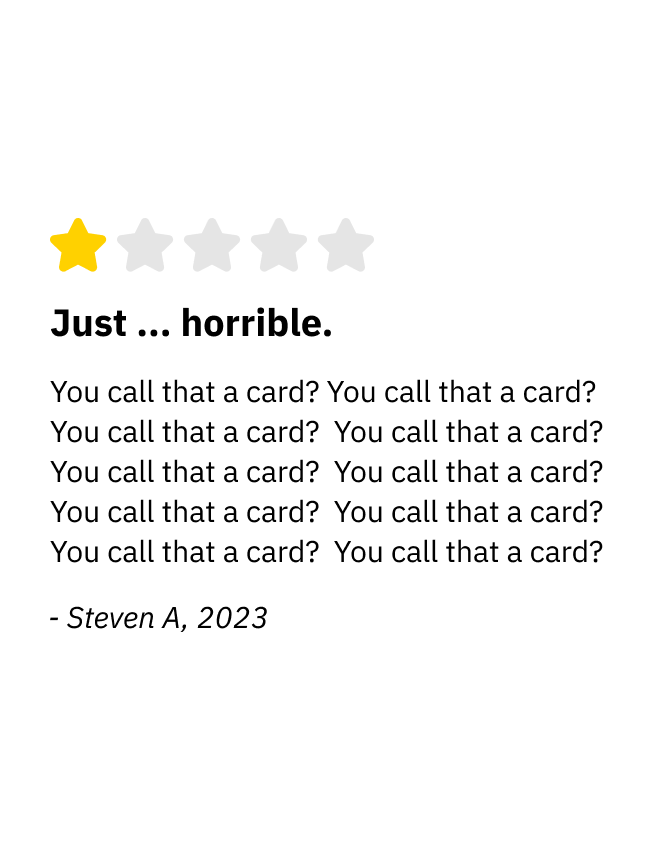
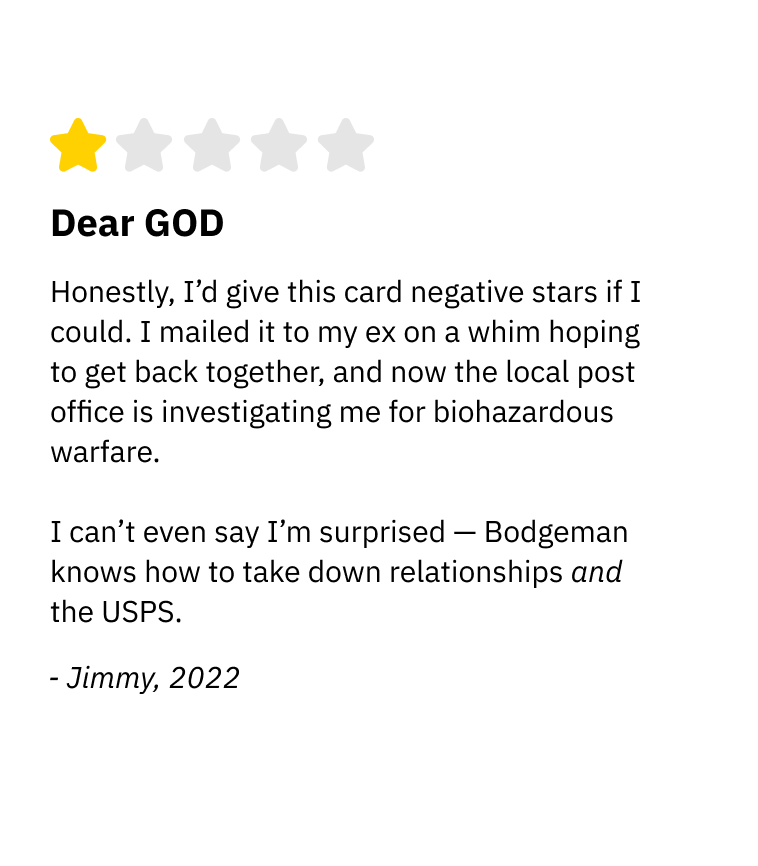
final push

Changed region(s): [[0.0625, 0.1247, 0.9062, 0.8106]]

diff --git a/index.html b/index.html
@@ -63,8 +63,9 @@
             <h3 class="sticky-title">What Our Customers Say</h3>
             <div class="image-list">
                 <img src="images/reviews/review1.png" alt="Sarcastic Birthday Card - 'Another Year Older'" loading="lazy">
-                <img src="images/reviews/review1.png" alt="Sarcastic Birthday Card - 'Another Year Older'" loading="lazy">
-                <img src="images/reviews/review1.png" alt="Sarcastic Birthday Card - 'Another Year Older'" loading="lazy">
+                <img src="images/reviews/review2.png" alt="Sarcastic Birthday Card - 'Another Year Older'" loading="lazy">
+                <img src="images/reviews/review3.png" alt="Sarcastic Birthday Card - 'Another Year Older'" loading="lazy">
+                <img src="images/reviews/review4.png" alt="Sarcastic Birthday Card - 'Another Year Older'" loading="lazy">
             </div>
         </section>
 
@@ -73,34 +74,30 @@
             <h3 class="sticky-title">Disclaimers</h3>
             <p>
                 <!-- Long disclaimers text -->
-                This product is not guaranteed to bring joy, happiness, or resolve familial tensions. Bodgeman Cards takes no responsibility for any emotional, physical, or metaphysical harm caused by receiving or handling our cards. By purchasing our products, you agree not to hold us liable for any injuries, losses, damages, or existential dread. The materials used may be substandard, the ink may fade, and in some instances, the card may spontaneously combust. 
+                This product is not guaranteed to bring joy, happiness, or resolve familial tensions. Bodgeman Cards takes no responsibility for any emotional, physical, or metaphysical harm caused by receiving or handling our cards. By purchasing our products, you agree not to hold us liable for any injuries, losses, damages, or existential dread. 
                 <br><br>
-                This is an extreme rarity and most likely just a rumor started by competitors. Results may vary. Terms subject to change at any time, especially when you are not looking. We are not responsible for your decision-making, your life choices, or the circumstances that led you to read this absurdly long disclaimer. 
+                The materials used may be substandard. However, the ink will never fade, given it's 4% radioactive. In some instances, the card may spontaneously combust. 
+                This is an extreme rarity and most likely just a rumor started by competitors. Results may vary. 
                 <br><br>
-                Please recycle responsibly, though we cannot guarantee these cards are recyclable. Consult a lawyer before purchasing, gifting, or even thinking about Bodgeman Cards. 
+                Under no circumstances should these cards be eaten, worn as clothing, or used as flotation devices. Bodgeman Cards is
+                not accountable if you attempt any of the above and face social ridicule, dental bills, or soggy postcards. If you do
+                manage to find a secondary use for our cards (such as wallpapering a panic room), you assume full liability for the
+                outcome, including all style and psychological repercussions.
                 <br><br>
-                We disclaim everything we can possibly disclaim to the fullest extent permitted by law. By scrolling this far, you acknowledge all these disclaimers and waive any and all potential claims you might have had, now or in the future, to a satisfactory greeting card experience.
+                Not only do we deny any and all warranties, but we also deny having ever met you, having ever done business with you, or
+                even having existed in the same universe as you—should the need arise. Our disclaimers transcend space and time, so if
+                you're reading this in the future (or somehow in the past), assume that everything remains disclaimed and nothing has
+                improved.
                 <br><br>
-                <!-- Duplicate the paragraph multiple times to ensure a long scroll -->
-                [Repeat disclaimers for demo...]
-                We disclaim everything... (repeat many times)<br><br>
-                We disclaim everything... (repeat many times)<br><br>
-                We disclaim everything... (repeat many times)<br><br>
+                We reserve the right to update, revise, or completely reinvent these disclaimers while you're in the middle of reading
+                them. If at any point you detect a sudden shift in tone or an oddly placed punctuation mark, it might be our legal team
+                rearranging words to further absolve us of responsibility. Sadly, our legal team is a cat. Rest assured, confusion is part of the plan.
+                <br><br>
+                By continuing to scroll, browse, or even think about Bodgeman Cards, you are giving us your irrevocable consent to
+                disclaim, deny, and track all of your actions. Should any portion of these disclaimers be deemed unenforceable, the rest of
+                them will remain in full force, like an overly caffeinated legal Calvin with a thousand heads and an unlimited supply of
+                disclaimers.
 
-                <!-- Long disclaimers text -->
-                This product is not guaranteed to bring joy, happiness, or resolve familial tensions. Bodgeman Cards takes no responsibility for any emotional, physical, or metaphysical harm caused by receiving or handling our cards. By purchasing our products, you agree not to hold us liable for any injuries, losses, damages, or existential dread. The materials used may be substandard, the ink may fade, and in some instances, the card may spontaneously combust. 
-                <br><br>
-                This is an extreme rarity and most likely just a rumor started by competitors. Results may vary. Terms subject to change at any time, especially when you are not looking. We are not responsible for your decision-making, your life choices, or the circumstances that led you to read this absurdly long disclaimer. 
-                <br><br>
-                Please recycle responsibly, though we cannot guarantee these cards are recyclable. Consult a lawyer before purchasing, gifting, or even thinking about Bodgeman Cards. 
-                <br><br>
-                We disclaim everything we can possibly disclaim to the fullest extent permitted by law. By scrolling this far, you acknowledge all these disclaimers and waive any and all potential claims you might have had, now or in the future, to a satisfactory greeting card experience.
-                <br><br>
-                <!-- Duplicate the paragraph multiple times to ensure a long scroll -->
-                [Repeat disclaimers for demo...]
-                We disclaim everything... (repeat many times)<br><br>
-                We disclaim everything... (repeat many times)<br><br>
-                We disclaim everything... (repeat many times)<br><br>
                 <br><br>
                 <br><br>
                 <br><br>

diff --git a/js/main.js b/js/main.js
@@ -77,13 +77,13 @@ document.addEventListener('DOMContentLoaded', function() {
                 directionY *= -1;
             }
 
-            if(clickCount === 1) {
+            if(clickCount === 2) {
                 button.textContent = "Can't catch me!";
             }
-            if (clickCount === 2) {
+            if (clickCount === 3) {
                 button.textContent = "Faster, faster!";
             }
-            if (clickCount === 3) {
+            if (clickCount === 4) {
                 button.textContent = "YEeeeEEeeeEE!";
             }
 
@@ -100,7 +100,7 @@ document.addEventListener('DOMContentLoaded', function() {
                 speed += 2; // Increase speed on each click
                 clickCount++; // Increment click count
 
-            if (clickCount >= 4) {
+            if (clickCount >= 5) {
                 const heading = document.querySelector('main section h2');
                 if (heading) {
                     heading.textContent = "Oh, sorry about that.";

diff --git a/css/style.css b/css/style.css
@@ -305,7 +305,7 @@ section.full-width {
     /* Add white drop shadow */
 }
 .disclaimers p {
-    font-size: 0.9em;
+    font-size: 1.2em;
     line-height: 1.5em;
     color: #555;
 }
@@ -456,9 +456,11 @@ section.full-width {
 }
 
 @media (max-width: 800px) {
-    .gallery .image-list img,
-    .reviews .image-list img {
+    .gallery .image-list img {
         width: 80%; /* 80% width for mobile */
+    }
+    .reviews .image-list img {
+        width: 100%; /* 80% width for mobile */
     }
 }
 
